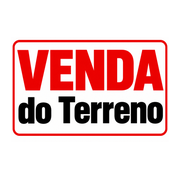
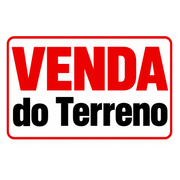
Força troca da versão antiga (Elo CRM) e ícone Venda do Terreno
- Service worker apaga caches antigos e recarrega na versão nova
- Manifesto volta a se chamar manifest.json para atualizar o app já instalado
- Ícones gerados da logo Venda do Terreno (também nos nomes antigos)

Claude-Session: https://claude.ai/code/session_01VTERQAhq4oByk416FbYS6U

Changed region(s): [[0.0278, 0.1944, 0.9722, 0.7778], [0.6389, 0.3056, 0.6944, 0.4722], [0.6667, 0.5, 0.6944, 0.5278]]

diff --git a/app.js b/app.js
@@ -466,7 +466,7 @@ async function renderAjustes(c) {
       <h3>Zona de perigo</h3>
       <div class="ajuste"><div>Apagar todos os dados e o acesso</div><button class="btn btn-perigo btn-peq" id="aj-apagar">Apagar</button></div>
     </div>
-    <p class="pequeno muted" style="text-align:center">Venda do Terreno · v1.1</p>`;
+    <p class="pequeno muted" style="text-align:center">Venda do Terreno · v1.2</p>`;
   atualizarBotoesInstalar();
   $$('.btn-instalar', c).forEach(b => b.onclick = instalar);
   $('#aj-senha').onclick = modalSenha;
@@ -764,7 +764,11 @@ window.addEventListener('storage', e => { if (e.key === LS_SESSAO && !sessaoVali
 setInterval(verificarSessao, 20000);
 
 if ('serviceWorker' in navigator && location.protocol.startsWith('http')) {
-  navigator.serviceWorker.register('sw.js').catch(() => { });
+  // Troca qualquer versão antiga guardada neste endereço (ex.: Elo CRM) pela atual
+  let recarregou = false;
+  navigator.serviceWorker.addEventListener('controllerchange', () => { if (!recarregou) { recarregou = true; location.reload(); } });
+  navigator.serviceWorker.register('sw.js?v=3', { updateViaCache: 'none' }).then(r => r.update()).catch(() => { });
+  if (window.caches) caches.keys().then(ks => ks.filter(k => !k.startsWith('venda-terreno-')).forEach(k => caches.delete(k)));
 }
 atualizarBotoesInstalar();
 if (sessaoValida()) entrarApp(); else { const havia = !!getSessao(); localStorage.removeItem(LS_SESSAO); mostrarLogin(havia ? 'Sua sessão expirou (limite de 6 horas). Entre novamente.' : ''); }

diff --git a/sw.js b/sw.js
@@ -1,10 +1,11 @@
 /* Service worker — cache do app para funcionar offline e permitir instalação */
-const CACHE = 'venda-terreno-v2';
+const CACHE = 'venda-terreno-v3';
 const ARQUIVOS = [
-  './', './index.html', './styles.css', './app.js', './manifest.webmanifest',
-  './icons/logo.png', './icons/icon-180.png', './icons/icon-192.png', './icons/icon-512.png', './icons/maskable-512.png'
+  './', './index.html', './styles.css', './app.js', './manifest.json',
+  './icons/logo.png', './icons/icon-180.png', './icons/icon-192.png', './icons/icon-512.png', './icons/maskable-512.png', './icon-180.png', './icon-192.png', './icon-512.png'
 ];
 self.addEventListener('install', e => {
+  self.skipWaiting();
   e.waitUntil(caches.open(CACHE).then(c => c.addAll(ARQUIVOS)).then(() => self.skipWaiting()));
 });
 self.addEventListener('activate', e => {
@@ -13,8 +14,9 @@ self.addEventListener('activate', e => {
 // Rede primeiro (pega atualizações), cache como reserva quando estiver offline
 self.addEventListener('fetch', e => {
   if (e.request.method !== 'GET' || !e.request.url.startsWith(self.location.origin)) return;
+  const navegacao = e.request.mode === 'navigate';
   e.respondWith(
-    fetch(e.request).then(r => {
+    fetch(e.request, navegacao ? { cache: 'no-store' } : {}).then(r => {
       if (r && r.ok) { const copia = r.clone(); caches.open(CACHE).then(c => c.put(e.request, copia)); }
       return r;
     }).catch(() => caches.match(e.request, { ignoreSearch: true }).then(r => r || caches.match('./index.html')))

diff --git a/index.html b/index.html
@@ -9,9 +9,9 @@
 <meta name="apple-mobile-web-app-capable" content="yes">
 <meta name="apple-mobile-web-app-title" content="Venda do Terreno">
 <title>Venda do Terreno</title>
-<link rel="manifest" href="manifest.webmanifest">
-<link rel="icon" type="image/png" href="icons/icon-192.png">
-<link rel="apple-touch-icon" href="icons/icon-180.png">
+<link rel="manifest" href="manifest.json?v=3">
+<link rel="icon" type="image/png" href="icons/icon-192.png?v=3">
+<link rel="apple-touch-icon" href="icons/icon-180.png?v=3">
 <link rel="stylesheet" href="styles.css">
 </head>
 <body>
